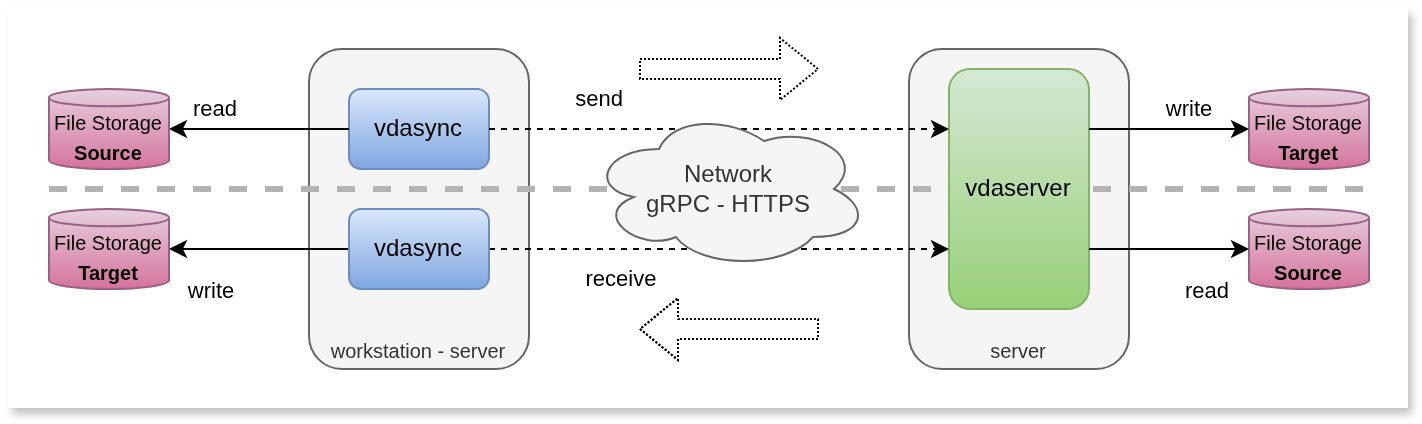
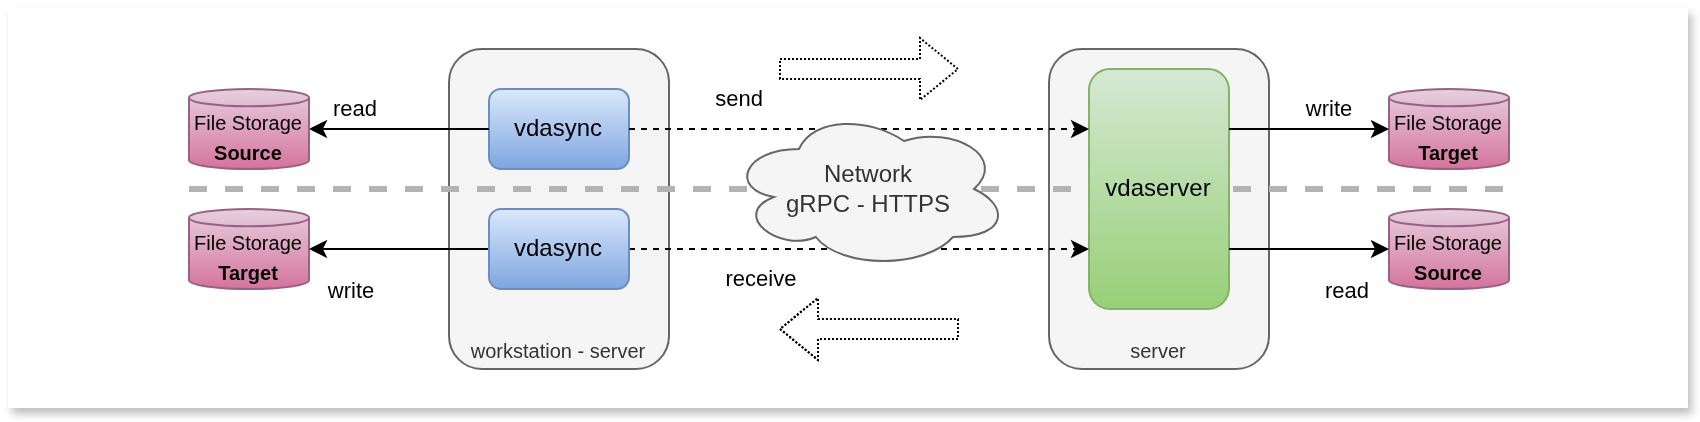
pretty print

diff --git a/README.md b/README.md
@@ -51,12 +51,20 @@ at the cost of related data transfers on the network.
 
 ![Vdasync's remote to remote transfer](docs/images/vdasync-remrem.png "Vdasync's remote to remote transfer schema")
 
-Using cloud or network storage services such as S3 object storage or SFTP
-is enabled with plugins as shown below:
+Using cloud or network storage services such as S3 object storage
 
-![Vdasync's plugins deployments](docs/images/vdasync-plugins.png "Vdasync's plugins deployments schema")
+![Vdasync's S3 plugin deployment](docs/images/vdasync-s3.png "Vdasync's S3 plugin deployment schema")
+
+or SFTP
+
+![Vdasync's SFTP plugin deployment](docs/images/vdasync-sftp.png "Vdasync's SFTP plugin deployment schema")
+
+is enabled with plugins.
 
 Plugins are gRPC servers running on the same host as the `vdasync` command, which automatically start and stop them.
+
+![Vdasync's plugins](docs/images/vdasync-plugin.png "Vdasync's plugins schema")
+
 They use the same API as `vdaserver` which makes the latter identical to a plugin implementing access to local files
 and running on a remote host. By the way, such a plugin, named `localFiles`, is provided for testing purpose.
 
